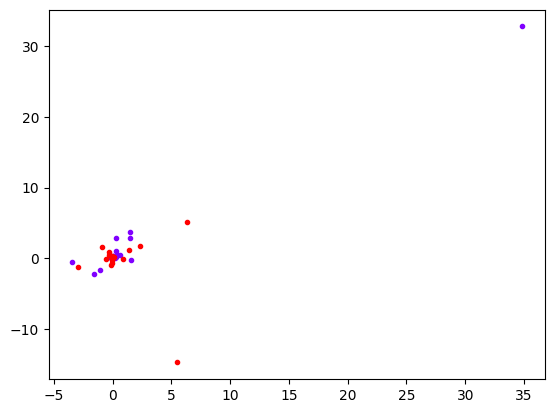
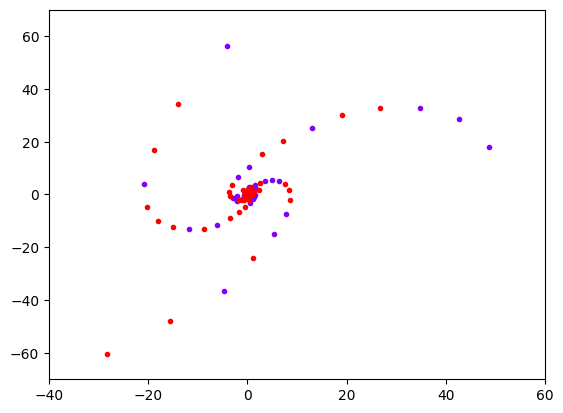
Optimising for sensitivity and resolution

diff --git a/src/rl_pipeline/ska_env.py b/src/rl_pipeline/ska_env.py
@@ -7,8 +7,8 @@ import numpy as np
 from scipy.special import kl_div
 from math import dist
 import matplotlib.pyplot as plt
-import plotly as px
 from rl_utils import baseline_dists, MSE
+from astro_utils import*
 
 ## Heavily inspired by https://pettingzoo.farama.org/content/environment_creation/ tutorial
 
@@ -38,7 +38,8 @@ class InterferometerEnv(AECEnv):
 
     metadata = {"render_modes": ["human"], "name": "rps_v2"}
 
-    def __init__(self, num_nodes=197, num_agents=2,
+    def __init__(self, target_sensitivity, target_resolution,
+                 num_nodes=197, num_agents=2,
                  coordinate_file=r"src\dataset\ska_xy_coordinates.csv", 
                  render_mode='human'):
         """
@@ -50,9 +51,13 @@ class InterferometerEnv(AECEnv):
         These attributes should not be changed after initialization.
         """
         self.num_nodes = num_nodes
+        self.agent_num = num_agents
+        self.target_sensitivity = target_sensitivity
+        self.target_resolution = target_resolution
+        self.weighting_regime = None
         self.coordinates = np.genfromtxt(coordinate_file, delimiter=',')
 
-        self.possible_agents = ["player_" + str(r) for r in range(num_agents)]
+        self.possible_agents = ["player_" + str(r) for r in range(self.agent_num)]
         # Mapping between agent name and ID
         self.agent_name_mapping = dict(zip(self.possible_agents, 
                                         list(range(len(self.possible_agents)))))
@@ -60,22 +65,34 @@ class InterferometerEnv(AECEnv):
         # optional: we can define the observation and action spaces here as attributes to be used in their corresponding methods
         self._action_spaces = {agent: Discrete(self.num_nodes) for agent in self.possible_agents}
         self._observation_spaces = {
-            agent: MultiDiscrete([self.num_nodes for n in range(self.num_nodes+1)]) for agent in self.possible_agents
-        } # This is the allocation of all nodes, which can be allocated to any of n agents
-        self.alloc = np.array([None for _ in range(self.num_nodes)]) # Allocated node list to use in baseline_dists calculation 
+            agent: MultiDiscrete([self.agent_num for _ in range(self.num_nodes)]) for agent in self.possible_agents
+        } # This is the allocation space of all nodes, which can be allocated to any of n agents
+        self.alloc = self._observation_spaces['player_0'].sample() # np.array([None for _ in range(self.num_nodes)]) # Allocated node list to use in baseline_dists calculation 
 
         self.render_mode = render_mode
         self.hists = None # Save histograms of baseline distances for rendering
         self.bin_centers = (np.array([n/2 for n in range(8)][:-1]) + np.array([n/2 for n in range(8)][1:])) / 2
 
     def observation_space(self, agent):
-        return MultiDiscrete([n for n in range(1, self.num_nodes+1)])
+        return MultiDiscrete([self.agent_num for _ in range(1, self.num_nodes)])
 
     def action_space(self, agent):
         return Discrete(self.graph.number_of_nodes())
 
     def observe(self, agent):
         return np.array(self.observations[agent])
+    
+    def calculate_rewards(self, avg_hist):
+        for n in range(self.num_agents): # Update rewards
+            array_sensitivity = sensitivity(len(np.where(self.alloc == n)[0]))
+            array_resolution = resolution(1, baseline_dists(self.coordinates[np.where(self.alloc == n)]))
+            similarity = MSE(avg_hist, self.hists[n]) if not \
+                        np.isnan(MSE(avg_hist, self.hists[n])) else -10 # Similarity to an average
+            self.rewards[self.agents[n]] = -MSE(array_sensitivity, self.target_sensitivity) - \
+                                            MSE(array_resolution, self.target_resolution)
+            
+            #similarity # - #np.ma.masked_invalid(kl).sum()
+        return None
 
     def close(self):
         pass
@@ -88,10 +105,11 @@ class InterferometerEnv(AECEnv):
         self.rewards = {agent: -10 for agent in self.agents}
         self._cumulative_rewards = {agent: 0 for agent in self.agents}
         self.terminations = {agent: False for agent in self.agents}
-        #self.truncations = {agent: False for agent in self.agents}
+        self.truncations = {agent: False for agent in self.agents}
         self.infos = {agent: {} for agent in self.agents}
         self.state = {agent: None for agent in self.agents}
         self.observations = {agent: None for agent in self.agents}
+        self.alloc = self._observation_spaces['player_0'].sample()
         # Cyclic stepping through the agents list.
         self._agent_selector = agent_selector(self.agents)
         self.agent_selection = self._agent_selector.next()
@@ -103,8 +121,8 @@ class InterferometerEnv(AECEnv):
         step(action) takes in an action for the current agent (specified by
         agent_selection) and needs to update any internal state used by observe() or render()
         """
-        if (self.terminations[self.agent_selection]):
-            #or self.truncations[self.agent_selection]):
+        if (self.terminations[self.agent_selection]
+            or self.truncations[self.agent_selection]):
             # handles stepping an agent which is already finished
             return
 
@@ -113,23 +131,27 @@ class InterferometerEnv(AECEnv):
         self.state[self.agent_selection] = action
         self.alloc[action] = self.agent_name_mapping[agent]
 
-        # rewards for all agents are placed in the .rewards dictionary
-        # Could introduce baseline weights here!!!! Start with uniform for now
-        #if self.num_steps < 10: # Can't histogram few moves..
-         #   self.rewards[self.agent_selection] = -10
+        avg_reward = -10000 # Large negative will be overwritten
+        for weighting_fn in (briggs_weighting, tapered_weighting):
+            self.hists = [np.histogram(baseline_dists(self.coordinates[np.where(self.alloc == i)]),
+                                        bins=[n/2 for n in range(8)],
+                                        weights=weighting_fn(baseline_dists(self.coordinates[np.where(self.alloc == i)])),
+                                    density=True)[0] for i in range(self.num_agents)]
+            #kl = [kl_div(self.hists[i], self.hists[i+1]) for i in range(len(self.hists)-1)]
+            avg_hist = np.average(self.hists, axis=0) # Used to calculate MSE
 
-        #else:
-        self.hists = [np.histogram(baseline_dists(self.coordinates[np.where(self.alloc == i)]), bins=[n/2 for n in range(8)], 
+            self.calculate_rewards(avg_hist) # Updates self.rewards
+            if np.mean(list(self.rewards.values())) > avg_reward:
+                self.weighting_regime = weighting_fn
+
+        wandb.log(self.rewards)
+        # Update hists with best weighting regime
+        self.hists = [np.histogram(baseline_dists(self.coordinates[np.where(self.alloc == i)]),
+                                    bins=[n/2 for n in range(8)],
+                                    weights=self.weighting_regime(baseline_dists(
+                                        self.coordinates[np.where(self.alloc == i)])),
                                 density=True)[0] for i in range(self.num_agents)]
-        #kl = [kl_div(self.hists[i], self.hists[i+1]) for i in range(len(self.hists)-1)]
-        avg_hist = np.average(self.hists, axis=0) # Used to calculate MSE
-
-        for n in range(self.num_agents):
-            # Penalize for number of nodes allocated and similarity of histograms
-            similarity = MSE(avg_hist, self.hists[n]) if not np.isnan(MSE(avg_hist, self.hists[n])) else -10
-            self.rewards[self.agents[n]] = (similarity - #np.ma.masked_invalid(kl).sum() +
-                                            len(np.where(self.alloc == None)[0])/self.num_nodes) 
-        
+            
         # The truncations dictionary must be updated for all players.
         #self.truncations = {
          #   agent: self.num_steps >= 200 for agent in self.agents # NOT USED
@@ -147,7 +169,7 @@ class InterferometerEnv(AECEnv):
         if self.render_mode == "human":
             self.render()
 
-        return self.observations, self.rewards, self.terminations#, self.truncations
+        return self.observations, self.rewards, self.terminations, self.truncations
 
 
     def render(self):
@@ -165,10 +187,11 @@ class InterferometerEnv(AECEnv):
                     plt.plot(self.coordinates[n, 0], self.coordinates[n, 1], '.', color=colours[i], 
                                 label='Agent {}'.format(i+1))
                     
-        #wandb.log({"Allocation": plt})  
-
         #plt.legend()
+        plt.xlim(-40, 60)
+        plt.ylim(-70, 70)
         plt.savefig(r'src\rl_pipeline\SKA_allocation.png', bbox_inches='tight')
+        wandb.log({"Allocation": wandb.Image(plt)}) 
         plt.close()
 
         if self.hists != None:
@@ -176,8 +199,8 @@ class InterferometerEnv(AECEnv):
             for i in range(self.num_agents):
                 axes[i].bar(self.bin_centers, self.hists[i])#, align='centre', width=0.5)
 
-            #wandb.log({"Histograms": fig})
             fig.savefig(r'src\rl_pipeline\SKA_histograms.png', bbox_inches='tight')
+            wandb.log({"Histograms": wandb.Image(fig)})
             plt.close()
         
         return

diff --git a/src/rl_pipeline/astro_utils.py b/src/rl_pipeline/astro_utils.py
@@ -1,0 +1,37 @@
+#resolution
+#sensitivity
+#Briggs weigthing (+Uniform, +Natural)
+#Tapered
+import numpy as np
+
+# SKIPPING CONSTANTS
+def resolution(wavelength, baselines):
+    # Baselines is a list of baselines. Resolution depends on the longest baseline
+    #return (wavelength / max(baselines))
+    return 1 / max(baselines)
+
+# SKIPPING CONSTANTS
+def sensitivity(num_antennas, system_temp=1, integration_time=3600, bandwidth=200e6, individual_radius=7.5):
+    # The SKA has 197 antennas, the new ones have radius 7.5m, the MeerKat ones 6.75m
+    # Bandwidth 50-350MHz
+    #numerator = 2*1.380649e-23 * system_temp
+    #denominator = num_antennas * np.pi * individual_radius**2 * \
+     #               np.sqrt(integration_time * bandwidth)
+    
+    #return (numerator / denominator)
+    return 1/ num_antennas
+
+
+def briggs_weighting(baselines, source_vis=1):
+    # Recreating eqn 3.13 from Dan Briggs thesis. Set delta S_uw to 1
+    return [1/((source_vis**2) * sum(baselines) + 2) for _ in baselines] # 8.2 e-06
+
+def tapered_weighting(baselines, taper_threshold=0.8):
+    # Calculate the weights based on the tapered regime (long baselines weighted less)
+    weights = np.ones_like(baselines)
+    taper_indices = np.where(baselines > taper_threshold * max(baselines))
+
+    for i in taper_indices[0]:
+        weights[i] = taper_threshold * max(baselines) / baselines[i]
+    
+    return weights # Works

diff --git a/src/rl_pipeline/run_experiment.py b/src/rl_pipeline/run_experiment.py
@@ -1,5 +1,4 @@
 from ska_env import InterferometerEnv
-from pettingzoo.test import api_test, seed_test, render_test
 import wandb
 
 from agents import PPOAgent, SGD_Agent
@@ -8,18 +7,18 @@ from sgd import train_SGD_agents
 if __name__ == "__main__":
     num_agents = 2
     num_episodes = 15
-    episode_length = 2
-    env = InterferometerEnv(num_agents=num_agents)
+    episode_length = 100
+    env = InterferometerEnv(1,1, num_agents=num_agents)
 
-    # run = wandb.init(
-    # # Set the project where this run will be logged
-    # project="ska_RL",
-    # # Track hyperparameters and run metadata
-    # config={
-    #     "num_agents": num_agents,
-    #     "episodes": num_episodes,
-    # },
-    # )
+    run = wandb.init(
+    # Set the project where this run will be logged
+    project="ska_RL",
+    # Track hyperparameters and run metadata
+    config={
+        "num_agents": num_agents,
+        "episodes": num_episodes,
+    },
+    )
     agents = [SGD_Agent(num_actions=env.num_nodes,
                         agent_id=env.possible_agents[i]) for i in range(num_agents)]
     train_SGD_agents(env, agents, num_episodes=num_episodes, episode_length=episode_length,

diff --git a/src/rl_pipeline/sgd.py b/src/rl_pipeline/sgd.py
@@ -12,18 +12,12 @@ def train_SGD_agents(env, agents, num_episodes, episode_length, agent_ids):
         while not all(done):
             for i in range(num_agents):
                 for _ in range(episode_length):
-                    action = agents[i].select_action(states[agent_ids[i]]) # Problem with states
+                    action = agents[i].select_action(states[agent_ids[i]])
                     print(action)
-                    next_state, reward, done[i] = env.step(action)
+                    next_state, reward, done[i], _ = env.step(action)
                     agents[i].update_weights(states[agent_ids[i]], action, reward)
                     states[agent_ids[i]] = next_state
                     total_rewards[i] += list(reward.values())[i]
-
-                    #if float(total_rewards[i]) != np.nan:
-                        #wandb.log({"Agent_{}".format(i+1): float(total_rewards[i])})
-                
-                    #if step % 20 == 0:
-                     #   env.render()
         env.close()
 
         print(f"Episode {episode+1}/{num_episodes}, Total Rewards: {total_rewards}")

diff --git a/src/rl_pipeline/agents.py b/src/rl_pipeline/agents.py
@@ -11,11 +11,11 @@ class SGD_Agent:
         self.agent_id = agent_id
         self.num_actions = num_actions
         self.learning_rate = learning_rate
-        self.weights = np.zeros(num_actions)
+        self.weights = np.ones(num_actions) # Optimistic initialisation
     
     def select_action(self, state):
         # Select action using epsilon-greedy policy
-        if np.random.rand() < 0.3: # Randomness level 10 percent
+        if np.random.rand() < 0.2: # Exploration percentage
             return np.random.choice(self.num_actions)
         else:
             print(self.weights)
